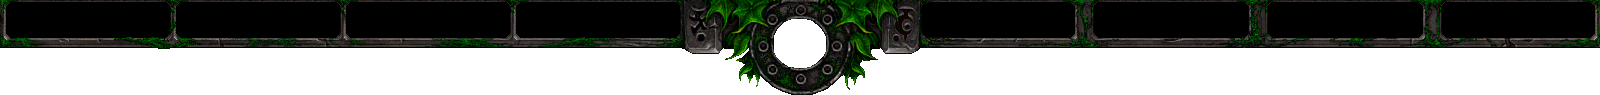
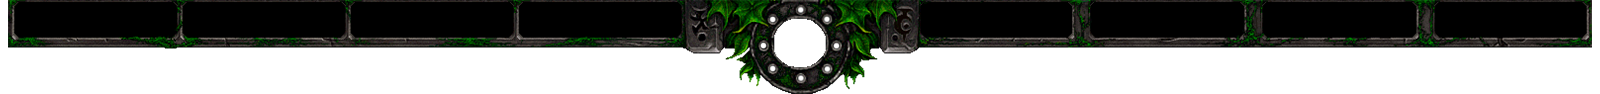
Upd: `HudHeader` - add light dots to time indicator and synchronize time with view

diff --git a/src/components/HudHeader.vue b/src/components/HudHeader.vue
@@ -1,7 +1,7 @@
 <script setup lang="ts">
 import { useElementBounding } from '@vueuse/core';
-import { computed, onMounted, PropType, ref } from 'vue';
-import { IUseTime } from '../composables/useTime';
+import { computed, PropType, ref } from 'vue';
+import { IUseTime, useTime } from '../composables/useTime';
 import { getAssetPath, getAssetUrl } from '../utils';
 import Button from './base/Button.vue';
 import { useConfig } from './ConfigProvider';
@@ -16,23 +16,21 @@ const texEl = ref(null)
 
 const {theme} = useConfig();
 const {height} = useElementBounding(texEl);
+const time = props.time ?? useTime()
 
 const heightPx = computed(()=>`${height.value}px`);
 const timeIndTex = computed(() => getAssetUrl('hud_time_indicator.png'));
-const timeIndTexPosition = computed(() => {
-  if (!props.time) return '0%';
-  return `${props.time.getProgress() * 2 * 100}%`
-})
-
-onMounted(() => {
-
-})
+const timeIndTexPosition = computed(() => `${time.getProgress() * 2 * 100}%`);
+const timeIndDotsCount = computed(() => Math.trunc(time.getProgress(true) * 8) + 1);
 </script>
 
 <template>
   <div class="hud-header">
-    <div class="hud-header__under-text-container">
+    <div class="hud-header__under-tex-container">
       <div class="hud-header__time"></div>
+      <div class="hud-header__time-dots" :class="{'hud-header--day': time.isDay.value}">
+        <div v-for="(i, ix) in timeIndDotsCount" :key="ix" />
+      </div>
     </div>
     <img ref="texEl" class="hud-header__tex" :src="getAssetPath('hud_header.png', theme)">
     <div class="hud-header__container">
@@ -73,19 +71,46 @@ onMounted(() => {
     position: absolute;
   }
 
-  &__under-text-container {
+  &__under-tex-container {
     width: 100%;
     height: 100%;
     display: flex;
     align-items: center;
     justify-content: center;
-  }
-  &__time {
-    height: calc(v-bind(heightPx) * 0.6);
-    width: calc(v-bind(heightPx) * 0.6);
-    background: v-bind(timeIndTex);
-    background-size: cover;
-    background-position-x: v-bind(timeIndTexPosition);
+
+    & .hud-header__time {
+      height: calc(v-bind(heightPx) * 0.6);
+      width: calc(v-bind(heightPx) * 0.6);
+      background: v-bind(timeIndTex);
+      background-size: cover;
+      background-position-x: v-bind(timeIndTexPosition);
+      border-radius: 50%;
+    }
+    & .hud-header__time-dots {
+      position: absolute;
+      transform: translateY(-3%) scaleY(0.95);
+
+      &.hud-header--day > * {
+        background: yellow;
+      }
+      & > * {
+        --dot-size: calc(v-bind(heightPx) * 0.15);
+
+        position: absolute;
+        top: calc(50% - (var(--dot-size) / 2));
+        left: calc(50% - (var(--dot-size) / 2));
+        width: var(--dot-size);
+        height: var(--dot-size);
+        background: cyan;
+        border-radius: 50%;
+
+        @for $i from 0 through 7 {
+          &:nth-child(#{$i + 1}) {
+            transform: rotate($i * 45deg - 90deg) translate(calc(v-bind(heightPx) * 0.4)) rotate($i * -45deg - 90deg);
+          }
+        }
+      }
+    }
   }
   &__tex {
     width: 100%;

diff --git a/src/components/Hud.vue b/src/components/Hud.vue
@@ -8,8 +8,8 @@ const time = useTime();
 
 // TODO: Change this Dev-only feature
 setInterval(()=>{
-  time.add(1);
-}, 1000/6)
+  time.add(1/60);
+}, 1000/60)
 </script>
 
 <template>
